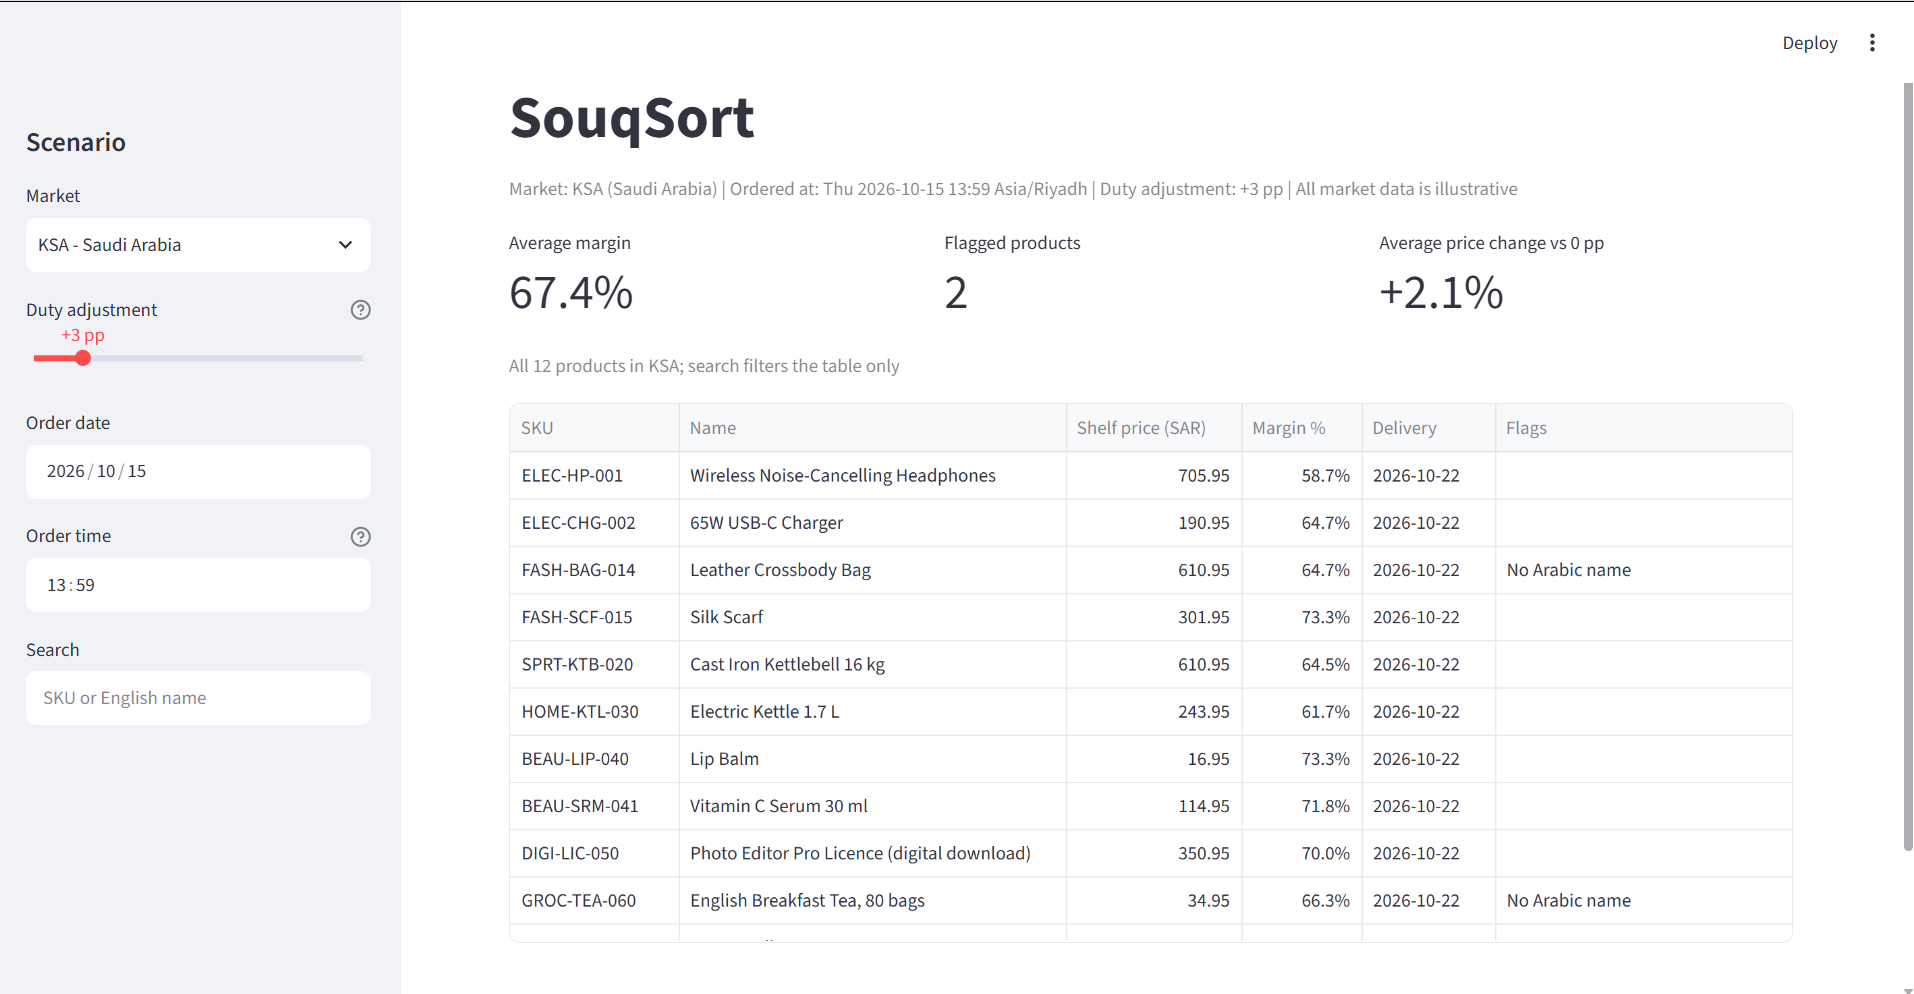
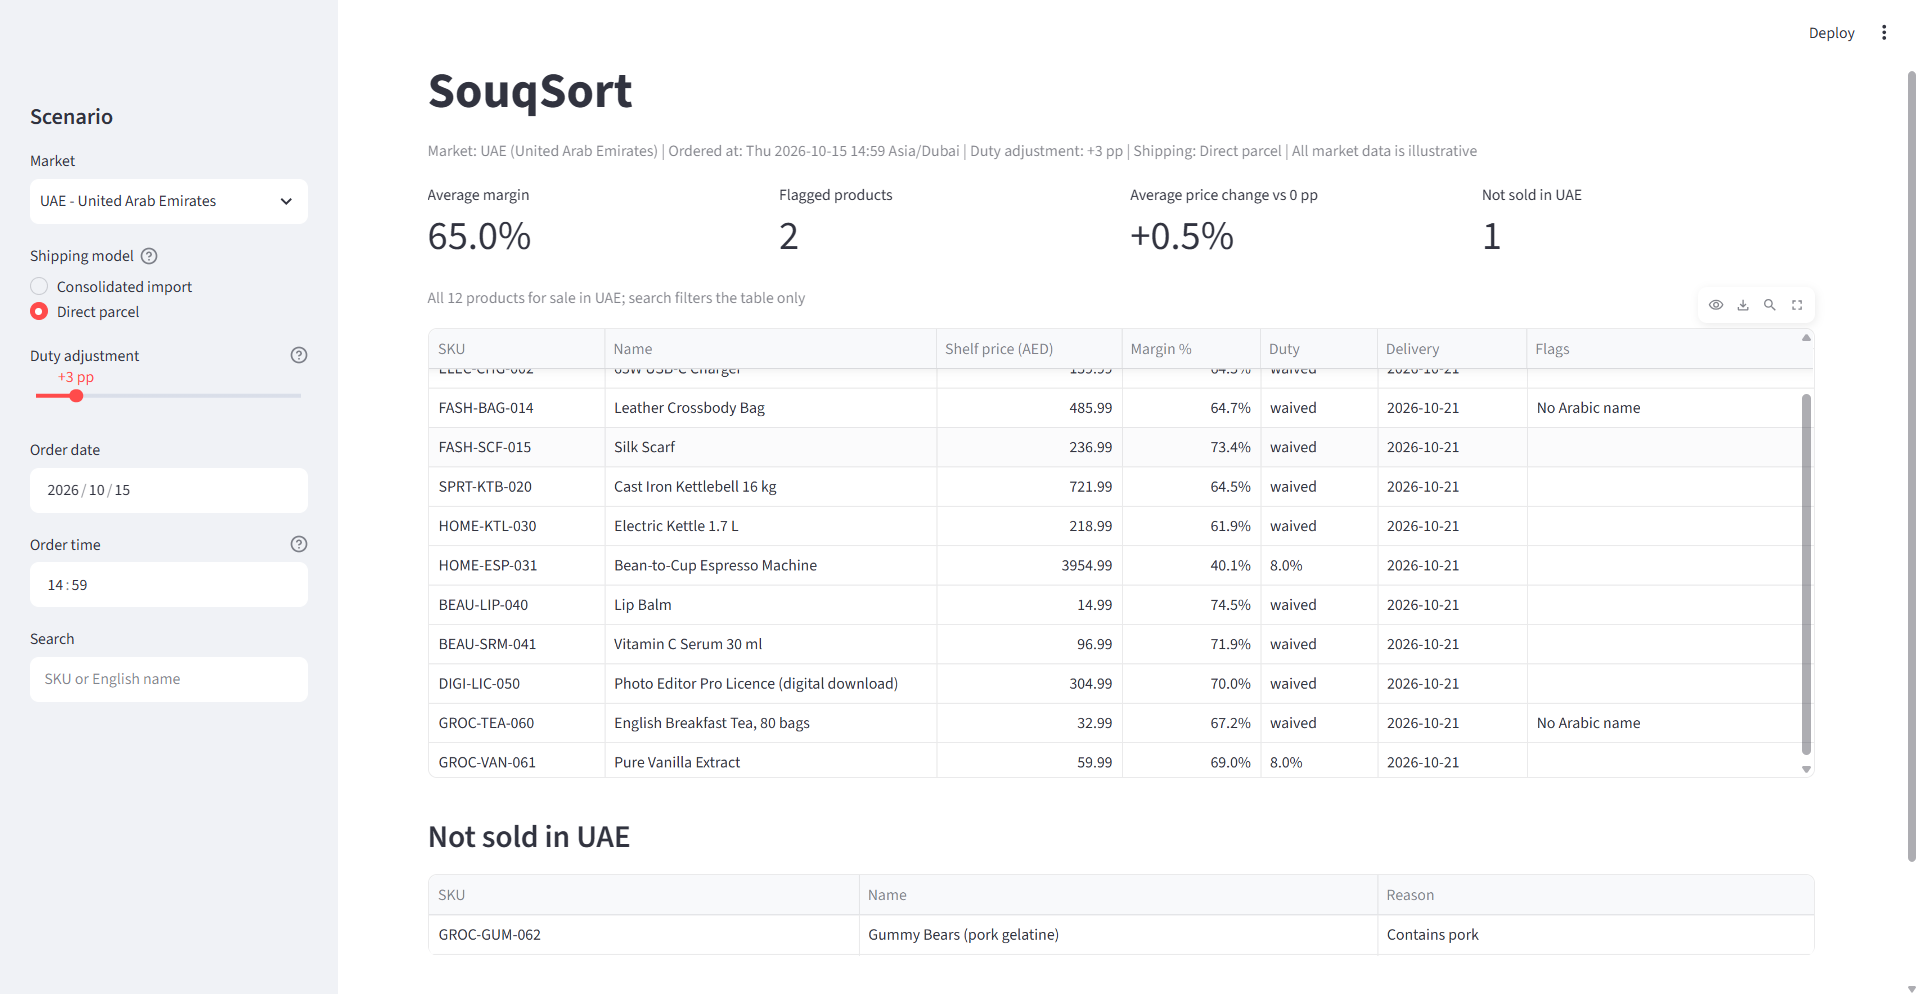
docs: update the README for v0.2
Three markets, compliance and the shipping switch. The sample run is the
new screenshot's scenario (UAE, direct parcel, +3 pp, 2026-10-15 14:59
Dubai time), with why only the espresso machine and the vanilla extract
pay duty and why the gummy bears are not sold, plus one comparison from
SPEC §7.9.3. Adds de minimis and compliance to "What makes it tricky",
--shipping to the options, CI and the Claude Code project tools to "How
it was built", and updates the test count, status and roadmap.

diff --git a/README.md b/README.md
@@ -4,62 +4,97 @@
 
 SouqSort is a localisation and pricing engine for a UK-based retailer launching its catalogue in the
 GCC. It turns a global catalogue priced in USD/GBP into market-ready shelf prices (FX, freight,
-duty, VAT, rounding and charm endings), margins and delivery dates. It is built for an expansion
-director who picks a market, moves a tariff slider and sees what happens to prices, margins and
-delivery promises, in a Streamlit dashboard or from the command line. Saudi Arabia (KSA) is live
-today; the UAE and Kuwait come next.
+duty, VAT, rounding and charm endings), margins and delivery dates for three markets: Saudi Arabia
+(KSA), the UAE and Kuwait. It is built for an expansion director who picks a market and a shipping
+model, moves a tariff slider and sees what happens to prices, margins and delivery promises, in a
+Streamlit dashboard or from the command line. Products a market does not allow are reported as not
+sold, with the reason.
 
 > [!IMPORTANT]
-> **All market data is illustrative.** FX rates, VAT and duty rates, freight costs, holidays and the
-> product catalogue are sample values written for this demo. Do not use them to quote real prices or
-> delivery dates.
+> **All market data is illustrative.** FX rates, VAT and duty rates, de minimis thresholds, freight
+> costs, holidays, compliance rules and the product catalogue are sample values written for this
+> demo. Do not use them to quote real prices or delivery dates.
 
-![SouqSort dashboard: KSA prices, margins and delivery dates with a +3 pp duty adjustment](docs/dashboard.png)
+![SouqSort dashboard: UAE direct-parcel prices with a +3 pp duty adjustment, duty waived for most products, and the gummy bears listed as not sold](docs/dashboard.png)
 
 ## Sample run
 
-The same scenario as the screenshot: KSA, duty up 3 percentage points, ordered on Thursday
-15 October 2026 at 13:59 Riyadh time.
+The same scenario as the screenshot: the UAE, shipped as direct parcels, duty up 3 percentage
+points, ordered on Thursday 15 October 2026 at 14:59 Dubai time.
 
 ```console
-$ uv run python -m souqsort price --market KSA --duty-adjust 3 --ordered-at 2026-10-15T13:59+03:00
-Market: KSA (Saudi Arabia)   Ordered at: 2026-10-15 13:59 Asia/Riyadh   Duty adjustment: +3 pp
+$ uv run python -m souqsort price --market UAE --shipping parcel --duty-adjust 3 --ordered-at 2026-10-15T14:59+04:00
+Market: UAE (United Arab Emirates)   Ordered at: 2026-10-15 14:59 Asia/Dubai   Duty adjustment: +3 pp   Shipping: parcel
 
-SKU           Name                                         Shelf price (SAR)  Margin %  Delivery    Flags
-------------  -------------------------------------------  -----------------  --------  ----------  -------------------
-ELEC-HP-001   Wireless Noise-Cancelling Headphones                    705.95     58.7%  2026-10-22  -
-ELEC-CHG-002  65W USB-C Charger                                       190.95     64.7%  2026-10-22  -
-FASH-BAG-014  Leather Crossbody Bag                                   610.95     64.7%  2026-10-22  missing_arabic_name
-FASH-SCF-015  Silk Scarf                                              301.95     73.3%  2026-10-22  -
-SPRT-KTB-020  Cast Iron Kettlebell 16 kg                              610.95     64.5%  2026-10-22  -
-HOME-KTL-030  Electric Kettle 1.7 L                                   243.95     61.7%  2026-10-22  -
-BEAU-LIP-040  Lip Balm                                                 16.95     73.3%  2026-10-22  -
-BEAU-SRM-041  Vitamin C Serum 30 ml                                   114.95     71.8%  2026-10-22  -
-DIGI-LIC-050  Photo Editor Pro Licence (digital download)             350.95     70.0%  2026-10-22  -
-GROC-TEA-060  English Breakfast Tea, 80 bags                           34.95     66.3%  2026-10-22  missing_arabic_name
-GROC-VAN-061  Pure Vanilla Extract                                     63.95     68.6%  2026-10-22  -
-GROC-GUM-062  Gummy Bears (pork gelatine)                              22.95     71.7%  2026-10-22  -
+SKU           Name                                         Shelf price (AED)  Margin %    Duty  Delivery    Flags
+------------  -------------------------------------------  -----------------  --------  ------  ----------  -------------------
+ELEC-HP-001   Wireless Noise-Cancelling Headphones                    589.99     58.7%  waived  2026-10-21  -
+ELEC-CHG-002  65W USB-C Charger                                       159.99     64.5%  waived  2026-10-21  -
+FASH-BAG-014  Leather Crossbody Bag                                   485.99     64.7%  waived  2026-10-21  missing_arabic_name
+FASH-SCF-015  Silk Scarf                                              236.99     73.4%  waived  2026-10-21  -
+SPRT-KTB-020  Cast Iron Kettlebell 16 kg                              721.99     64.5%  waived  2026-10-21  -
+HOME-KTL-030  Electric Kettle 1.7 L                                   218.99     61.9%  waived  2026-10-21  -
+HOME-ESP-031  Bean-to-Cup Espresso Machine                           3954.99     40.1%    8.0%  2026-10-21  -
+BEAU-LIP-040  Lip Balm                                                 14.99     74.5%  waived  2026-10-21  -
+BEAU-SRM-041  Vitamin C Serum 30 ml                                    96.99     71.9%  waived  2026-10-21  -
+DIGI-LIC-050  Photo Editor Pro Licence (digital download)             304.99     70.0%  waived  2026-10-21  -
+GROC-TEA-060  English Breakfast Tea, 80 bags                           32.99     67.2%  waived  2026-10-21  missing_arabic_name
+GROC-VAN-061  Pure Vanilla Extract                                     59.99     69.0%    8.0%  2026-10-21  -
+
+Not sold in UAE (1):
+SKU           Name                         Reasons
+------------  ---------------------------  -------------
+GROC-GUM-062  Gummy Bears (pork gelatine)  contains_pork
 ```
 
-The order lands one minute before the 14:00 cut-off, so it ships the same day and arrives five
-business days later, skipping the Friday–Saturday weekend. `--ordered-at` is fixed here so the
+Each direct parcel is cleared on its own, and the UAE charges no customs duty on one whose CIF
+(goods + freight) is AED 1,000 or less. So most products pay no duty, and the +3 pp slider leaves
+their prices exactly where they were at 0 pp. Only two products pay duty, at 5% + 3 pp = 8%:
+
+- **The espresso machine** is over the threshold: its CIF is about AED 3,487.19.
+- **The vanilla extract** is well under it (CIF AED 52.11), but the UAE excludes alcohol from de
+  minimis, including food preparations containing alcohol, and vanilla extract contains alcohol.
+
+These two are the only prices the slider moves: 3844.99 → 3954.99 and 57.99 → 59.99, which is why
+the dashboard's average price change is only +0.5%.
+
+**The gummy bears are not sold** because they contain pork gelatine, and the UAE bans
+`contains_pork`. They are screened out before pricing, so they are never priced, and they are listed
+with the reason instead of silently disappearing.
+
+The order lands one minute before the UAE's 15:00 cut-off, so it ships the same day and arrives four
+business days later, skipping the Saturday–Sunday weekend. `--ordered-at` is fixed here so the
 output is reproducible; without it the CLI uses the current time.
+
+The shipping model is a real trade-off. Parcel freight costs twice as much per kg, so light,
+valuable items get cheaper as parcels and heavy or cheap ones get dearer. In KSA, the headphones go
+from 686.95 to 660.95 SAR, but the 16 kg kettlebell goes from 593.95 to 875.95. Kuwait has no de
+minimis, so a parcel there is never cheaper.
 
 ## What makes it tricky
 
 - **Money.** `Decimal` throughout, rounded once with `ROUND_HALF_UP`: 0.0005 at 3 decimals gives
   0.001, where banker's rounding would give 0.000. Charm endings never lower a price
   (686.96 becomes 687.95, not 686.95). KWD uses 3 decimals, not 2.
-- **Tax order.** Duty is charged on CIF (goods + freight); VAT is charged on CIF + duty.
+- **Tax order.** Duty is charged on CIF (goods + freight); VAT is charged on CIF + duty, and still on
+  CIF when de minimis waives the duty.
 - **FX order.** Multiply before dividing. Dividing first turned an exact 0.075 into 0.07499…97,
   which rounds to 0.07 instead of 0.08.
+- **De minimis.** The threshold is compared with the unrounded CIF in the market currency, including
+  the dearer parcel freight. KSA waives duty *below* SAR 1,000 and the UAE *at or below* AED 1,000,
+  so a CIF of exactly 1,000.00 pays duty in one and not the other. The duty slider never changes
+  whether a product is waived, and a waived product pays nothing at any adjustment.
+- **Compliance.** Each market lists the product attributes it does not allow. A banned product is
+  never priced for that market and never silently dropped: it is reported as not sold, with its
+  reasons. KSA and Kuwait sell 11 of the 13 products, the UAE 12.
 - **Delivery.** Orders are converted to market time first: Thursday 22:30 UTC is already Friday,
-  the weekend, in Riyadh. The cut-off is compared as a moment in time, so a clock change can't make
-  a later order arrive earlier.
+  the weekend, in Riyadh, but a working day in Dubai. The cut-off is compared as a moment in time,
+  so a clock change can't make a later order arrive earlier.
 - **Errors.** A product that can't be priced fails with a message naming its SKU; unexpected bugs
   keep their traceback.
-- **Tests.** 600+ tests, including Hypothesis property tests, headless dashboard tests (Streamlit's
-  `AppTest`) and architecture tests that keep the clock and pandas out of the engine.
+- **Tests.** 1,000+ tests, including every worked example and price list in the spec, Hypothesis
+  property tests, headless dashboard tests (Streamlit's `AppTest`) and architecture tests that keep
+  floats, market codes, the clock and pandas out of the engine.
 
 ## Install and run
 
@@ -74,18 +109,20 @@ uv sync
 | To | Run |
 |---|---|
 | Price a market from the CLI | `uv run python -m souqsort price --market KSA` |
+| Price UAE direct parcels | `uv run python -m souqsort price --market UAE --shipping parcel` |
 | Open the dashboard | `uv run streamlit run app/streamlit_app.py` |
 | Run the tests | `uv run pytest` |
-| Lint and type-check | `uv run ruff check .` and `uv run mypy src` |
+| Format, lint and type-check | `uv run ruff format --check .`, `uv run ruff check .` and `uv run mypy src` |
 
 CLI options for `price`:
 
 | Option | Meaning |
 |---|---|
-| `--market CODE` | Market code from the config (required). |
+| `--market CODE` | Market code from the config: `KSA`, `UAE` or `KWT` (required). |
+| `--shipping MODEL` | `consolidated` (one commercial import, de minimis never applies) or `parcel` (each order cleared on its own, duty-free under the market's de minimis threshold, dearer freight). Default `consolidated`. |
 | `--duty-adjust POINTS` | Whole percentage points added to every duty rate, 0 to 20. Default 0. |
 | `--ordered-at ISO` | Order date and time, e.g. `2026-10-15T20:59Z`. Without an offset it is read as local time in the market. Default: now. |
-| `--csv PATH` | Also write the rows to a CSV file. |
+| `--csv PATH` | Also write the rows for the products for sale to a CSV file. |
 
 ## Design rules
 
@@ -94,7 +131,10 @@ CLI options for `price`:
 - **Round once.** Every step keeps full precision. The only rounding is at the shelf price, with
   `ROUND_HALF_UP` to the currency's minor units; the charm ending then only ever moves a price up.
 - **Markets as config.** A market is an entry in `data/raw/gcc_config.json`: currency, VAT, duty
-  rates, weekend, holidays, cut-off, freight. No code branches on a market code.
+  rates, de minimis rule, banned attributes, weekend, holidays, cut-off, freight and parcel freight.
+  The UAE and Kuwait were added without changing any code, and no code branches on a market code.
+- **Not sold, never dropped.** A product a market does not allow is never priced for it, and is
+  always reported with the reason.
 - **No clock in the engine.** The engine never reads the current time; it is always passed a
   timezone-aware `ordered_at`. Only the entry points read the clock: the CLI, through an injectable
   `now` callable, and the dashboard, for its picker defaults. Every result is reproducible and
@@ -107,19 +147,34 @@ The full rules, with worked examples, are in [SPEC.md](SPEC.md).
 - **Spec first.** [SPEC.md](SPEC.md) set the rules, worked examples and acceptance tests before any
   code.
 - **Test-first milestones.** Each milestone was planned and built test-first with
-  [Claude Code](https://claude.com/claude-code).
-- **Independent review.** The work was reviewed by an independent AI code review. I triaged every
-  finding; deferred items are tracked as
+  [Claude Code](https://claude.com/claude-code), on its own branch, and reached `main` through a
+  pull request.
+- **CI.** GitHub Actions runs the format check, lint, type check and tests on Ubuntu and Windows
+  for every pull request and every push to `main`, and fails on a stale `uv.lock`.
+- **Project tools for Claude Code**, in `.claude/`:
+  - `/verify` runs the same four checks as CI and ends with `verify: PASS` or `verify: FAIL`.
+  - `/add-market CODE "Name"` adds a market as config data plus its tests, without touching code.
+    The UAE and Kuwait were added with it.
+  - A format hook runs `ruff format` on every Python file Claude edits.
+  - The `money-reviewer` subagent checks a branch against the money rules (Decimal only, one
+    rounding, duty and VAT bases, de minimis, compliance) before code review.
+- **Independent review.** The work was reviewed by an independent AI code review, and the de minimis
+  milestone by the money-reviewer as well. I triaged every finding; decisions are recorded in the
+  spec, and deferred items are tracked as
   [GitHub issues](https://github.com/yazanlouid/souqsort/issues).
 
 ## Status
 
-**v0.1.0: Saudi Arabia (KSA) end to end.** Catalogue and config validation, landed-cost pricing with
-margins, delivery estimates, the CLI and the dashboard.
+**v0.2.0: three markets, compliance and de minimis.** KSA, the UAE and Kuwait; banned product
+attributes reported as not sold; a consolidated-import or direct-parcel shipping model, with de
+minimis thresholds; the duty rate, or "waived", in the CLI, the CSV and the dashboard.
+
+**v0.1.0:** KSA end to end: catalogue and config validation, landed-cost pricing with margins,
+delivery estimates, the CLI and the dashboard.
 
 Roadmap:
 
-- **v0.2:** the UAE and Kuwait, added through config only; compliance rules (banned product
-  attributes); de minimis thresholds.
 - **v0.3:** a `GCC_EXPANSION_REPORT.md` generated from a template, with a download button in the
-  dashboard.
+  dashboard, building on the consolidated-versus-parcel comparison.
+- **Later:** pricing refinements (per-parcel fees, orders of several items, a finer price ladder for
+  KWD), calculation traces, and a data pipeline. See [SPEC.md](SPEC.md) §2.
